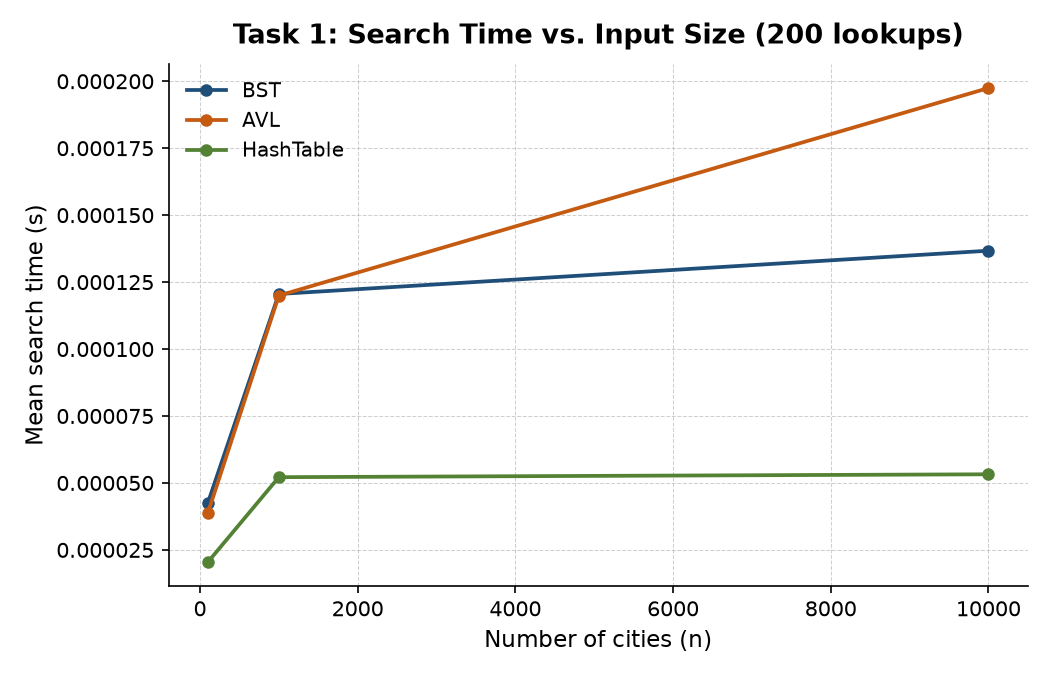
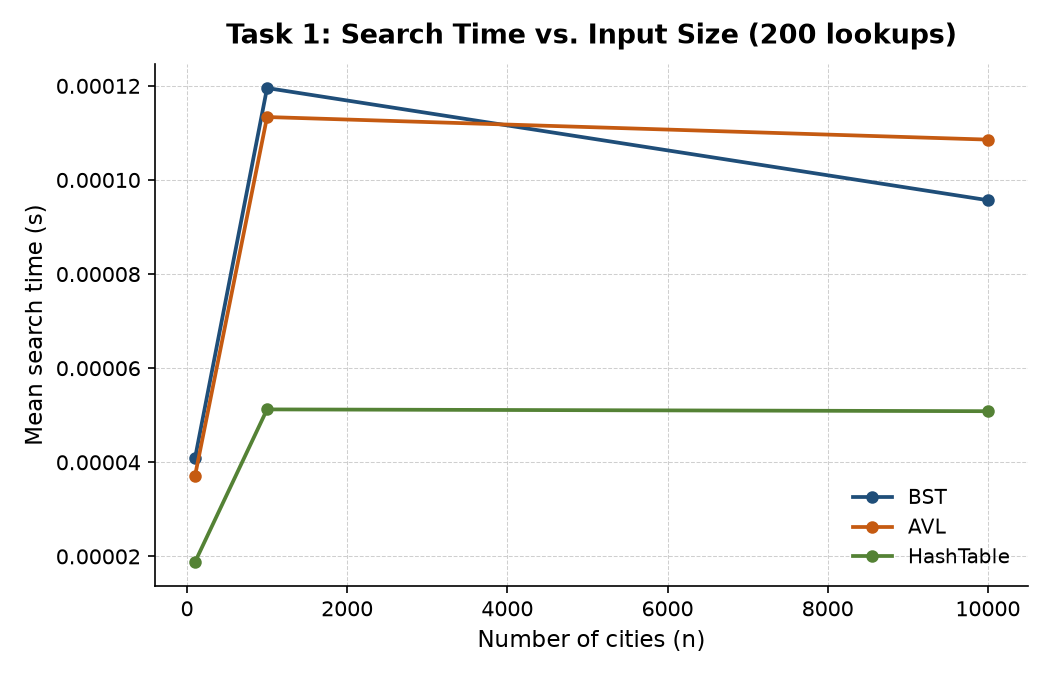
Binary search tree testing done.

diff --git a/Task1/test_binary_search_tree.py b/Task1/test_binary_search_tree.py
@@ -1,0 +1,78 @@
+from __future__ import annotations
+import sys
+import unittest
+from pathlib import Path
+from binary_search_tree import BinarySearchTree  
+
+class TestBinarySearchTree(unittest.TestCase):
+    """Correctness tests for :class:`BinarySearchTree`."""
+
+    def setUp(self) -> None:
+        self.tree: BinarySearchTree[str] = BinarySearchTree()
+
+    def test_empty_tree_has_zero_length_and_height_minus_one(self) -> None:
+        self.assertEqual(len(self.tree), 0)
+        self.assertEqual(self.tree.height(), -1)
+
+    def test_insert_and_search_single_key(self) -> None:
+        self.tree.insert(10, "ten")
+        self.assertEqual(self.tree.search(10), "ten")
+        self.assertEqual(len(self.tree), 1)
+
+    def test_search_missing_key_returns_none(self) -> None:
+        self.tree.insert(10, "ten")
+        self.assertIsNone(self.tree.search(999))
+
+    def test_contains_operator(self) -> None:
+        self.tree.insert(10, "ten")
+        self.assertIn(10, self.tree)
+        self.assertNotIn(999, self.tree)
+
+    def test_insert_overwrites_existing_key(self) -> None:
+        self.tree.insert(10, "ten")
+        self.tree.insert(10, "TEN")
+        self.assertEqual(self.tree.search(10), "TEN")
+        self.assertEqual(len(self.tree), 1)  # overwrite must not grow the tree
+
+    def test_matches_reference_dict_for_many_keys(self) -> None:
+        keys = [50, 20, 70, 10, 30, 60, 80, 5, 15, 25, 35]
+        reference: dict[int, str] = {}
+        for key in keys:
+            value = f"city-{key}"
+            self.tree.insert(key, value)
+            reference[key] = value
+
+        for key, value in reference.items():
+            self.assertEqual(self.tree.search(key), value)
+        self.assertEqual(len(self.tree), len(reference))
+
+    def test_delete_leaf_node(self) -> None:
+        for key in (50, 20, 70):
+            self.tree.insert(key, str(key))
+        self.assertTrue(self.tree.delete(20))
+        self.assertIsNone(self.tree.search(20))
+        self.assertEqual(len(self.tree), 2)
+
+    def test_delete_node_with_two_children(self) -> None:
+        for key in (50, 20, 70, 10, 30, 60, 80):
+            self.tree.insert(key, str(key))
+        self.assertTrue(self.tree.delete(50))  # root has two children
+        self.assertIsNone(self.tree.search(50))
+        # every other key must still be reachable after the successor swap
+        for key in (20, 70, 10, 30, 60, 80):
+            self.assertEqual(self.tree.search(key), str(key))
+
+    def test_delete_missing_key_returns_false(self) -> None:
+        self.tree.insert(10, "ten")
+        self.assertFalse(self.tree.delete(999))
+        self.assertEqual(len(self.tree), 1)
+
+    def test_worst_case_sorted_insertion_produces_linear_height(self) -> None:
+        """Inserting sorted keys degrades a BST to a linked list: height == n - 1."""
+        for key in range(10):
+            self.tree.insert(key, key)
+        self.assertEqual(self.tree.height(), 9)
+
+
+if __name__ == "__main__":
+    unittest.main(verbosity=2)

diff --git a/Task1/benchmark.py b/Task1/benchmark.py
@@ -222,9 +222,10 @@ def run() -> None:
     )
 
 
+
 if __name__ == "__main__":
     try:
         run()
-    except Exception:  # noqa: BLE001 -- top-level entry point: log and re-raise
+    except Exception:  # top-level entry point: log and re-raise
         logger.exception("Task 1 benchmark suite failed.")
         raise